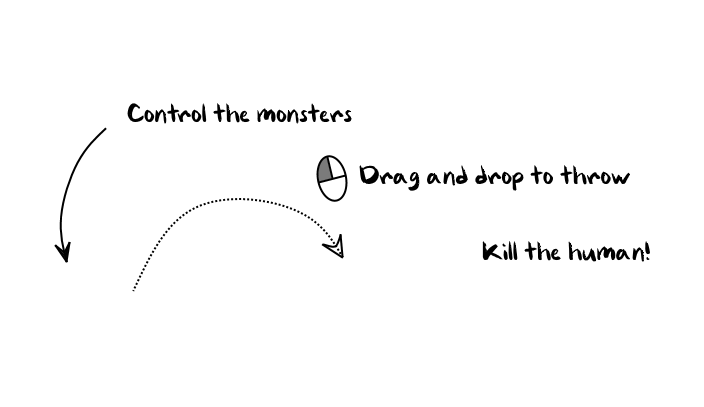
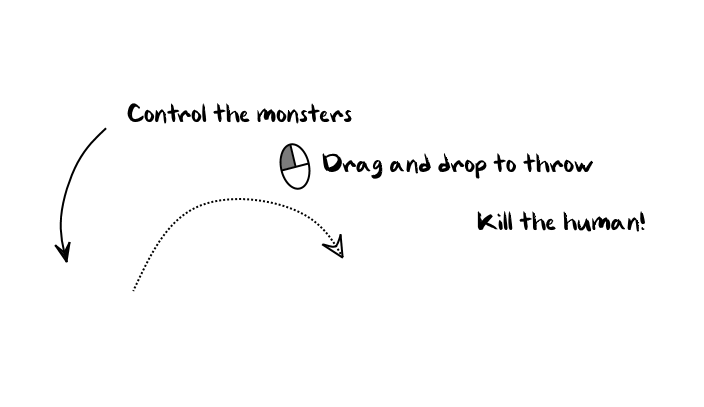
Update bullets, background

Changed region(s): [[0.375, 0.3538, 0.9062, 0.5012], [0.6562, 0.5012, 0.9375, 0.6486]]

diff --git a/projectile.py b/projectile.py
@@ -3,6 +3,7 @@ import random
 import pygame.draw
 
 from constants import *
+from image_manager import ImageManager
 from particle import Spatter
 from sound_manager import SoundManager
 
@@ -25,6 +26,8 @@ class Projectile:
         SoundManager.load(f"assets/audio/terrain_shot_impact_4.ogg")
         for i in range(13):
             SoundManager.load(f"assets/audio/ZR_shot_impact_{i+1}.ogg")
+
+        self.sprite = ImageManager.load("assets/images/one_bullet.png")
 
     def update(self, dt, events):
         if self.hit:
@@ -66,9 +69,16 @@ class Projectile:
 
     def draw(self, surface, offset):
         if self.hit:
-            pygame.draw.circle(surface, (255, 100, 0), (self.x + offset[0], self.y + offset[1]), self.r * 2)
+            pygame.draw.circle(surface, (255, 255, 180), (self.x + offset[0], self.y + offset[1]), self.r * 2)
         else:
-            pygame.draw.circle(surface, (50, 50, 50), (self.x + offset[0], self.y + offset[1]), self.r)
+            surf = self.sprite
+            angle = math.atan2(-self.vy, self.vx) + math.pi
+            angle = math.degrees(angle)
+            surf = pygame.transform.rotate(surf, angle)
+            x = self.x - surf.get_width()//2 + offset[0]
+            y = self.y - surf.get_height()//2 + offset[1]
+            surface.blit(surf, (x, y))
+            #pygame.draw.circle(surface, (50, 50, 50), (self.x + offset[0], self.y + offset[1]), self.r)
 
     def collide(self, rect):
         """ Return true if collision occurs, else False """

diff --git a/background.py b/background.py
@@ -5,7 +5,7 @@ import constants as c
 class Background:
 
     def __init__(self):
-        self.surf = ImageManager.load("assets/images/temp bg.png", 1)
+        self.surf = ImageManager.load("assets/images/NEW BG 2.png", 1)
 
     def update(self, dt, events):
         pass
